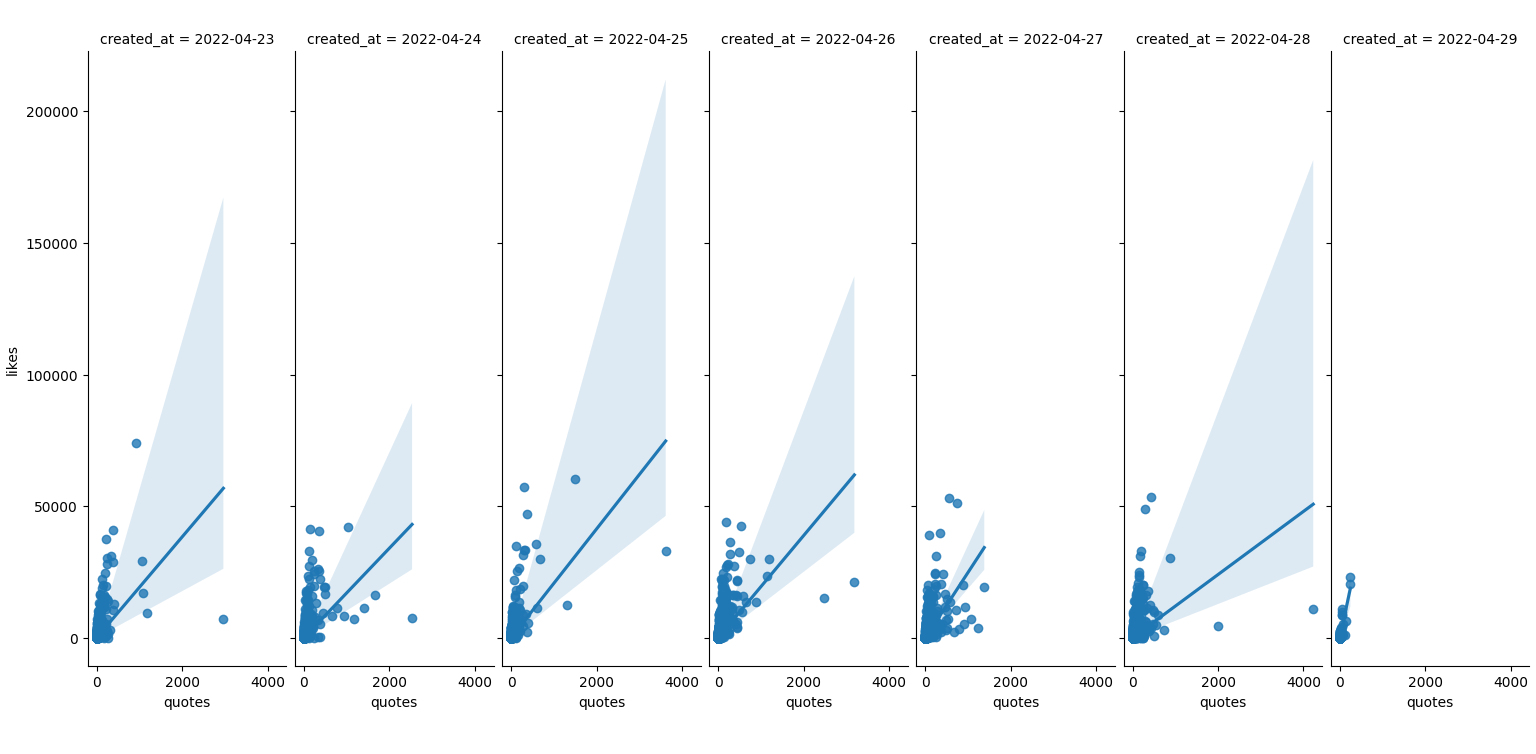
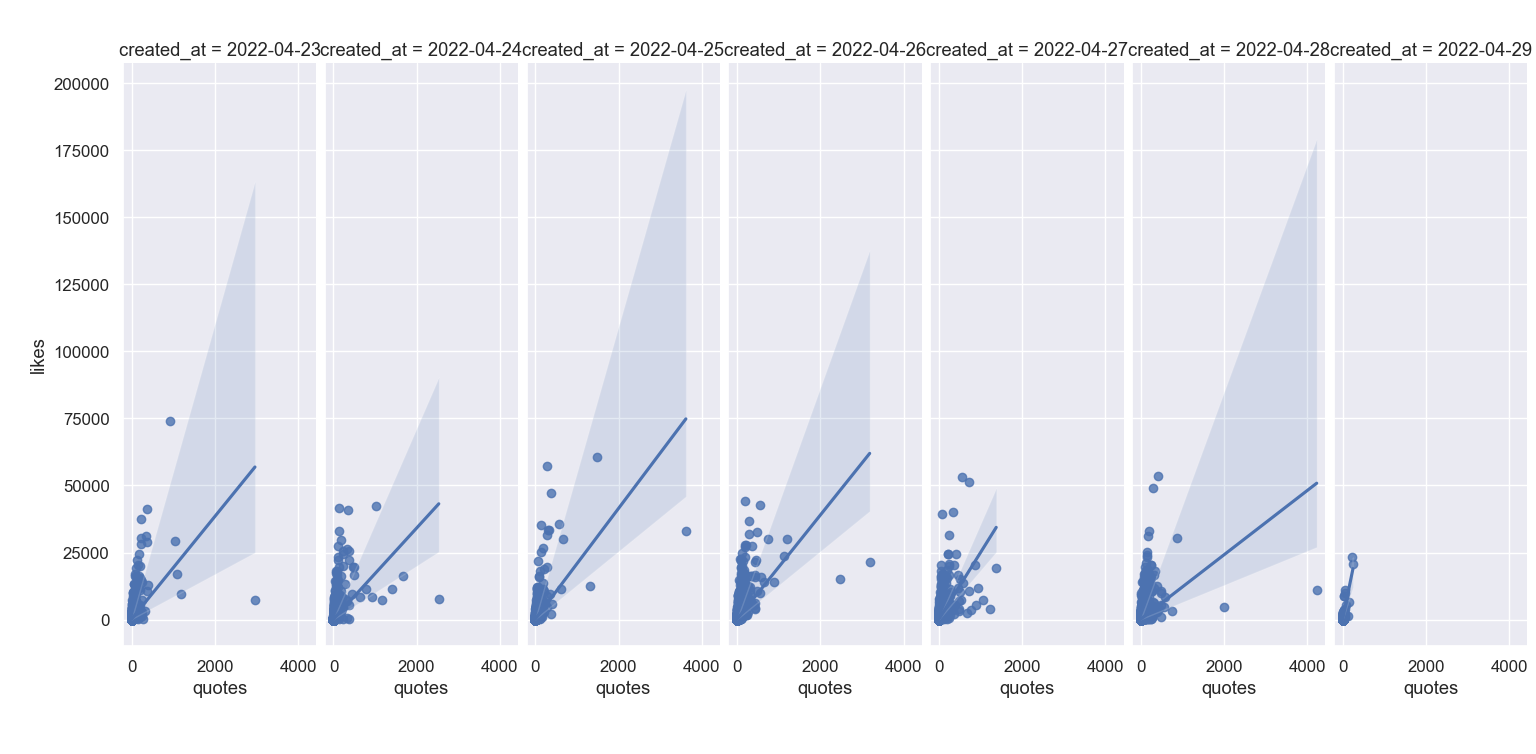
The font size of diagrams was changed!

diff --git a/qualitive_plots.py b/qualitive_plots.py
@@ -18,17 +18,17 @@ count_of_sources = pd.DataFrame(df.groupby(["source"])["source"].count())
 top_5_sources_count = list(count_of_sources.stack().nlargest(5))
 
 hashtags_count = dict(df_hashtags.groupby('hashtags')['hashtags'].count())
-top_10_hashtags_count = list(sorted(hashtags_count.items(), key=lambda item: item[1],reverse=True))[:10]
-top_10_hashtags_df = pd.DataFrame({
-    "hashtag": map(lambda item: item[0],top_10_hashtags_count),
-    "count": map(lambda item: item[1],top_10_hashtags_count)
+top_5_hashtags_count = list(sorted(hashtags_count.items(), key=lambda item: item[1],reverse=True))[:5]
+top_5_hashtags_df = pd.DataFrame({
+    "hashtag": map(lambda item: item[0],top_5_hashtags_count),
+    "count": map(lambda item: item[1],top_5_hashtags_count)
 })
 
 mentions_count = dict(df_mentions.groupby('mentions')['mentions'].count())
-top_10_mentions_count = list(sorted(mentions_count.items(),key=lambda item: item[1],reverse=True))[:10]
-top_10_mentions_df = pd.DataFrame({
-    "mention": map(lambda item: item[0],top_10_mentions_count),
-    "count": map(lambda item: item[1],top_10_mentions_count)
+top_5_mentions_count = list(sorted(mentions_count.items(),key=lambda item: item[1],reverse=True))[:5]
+top_5_mentions_df = pd.DataFrame({
+    "mention": map(lambda item: item[0],top_5_mentions_count),
+    "count": map(lambda item: item[1],top_5_mentions_count)
 })
 
 langs_count = dict(df.groupby('lang')['lang'].count())
@@ -50,9 +50,9 @@ m_word_cloud = WordCloud(collocations = False, background_color = 'white').gener
 l_word_cloud = WordCloud(collocations = False, background_color = 'white').generate(langs_in_string)
 
 sns.set_theme(style="whitegrid")
-
+sns.set(font_scale=2)
 h_fig, h_axs = plt.subplots(nrows=2)
-hashtags_plot = sns.barplot(data=top_10_hashtags_df,x="hashtag",y="count",ax=h_axs[0]) #top 10 hashtags bar plot
+hashtags_plot = sns.barplot(data=top_5_hashtags_df,x="hashtag",y="count",ax=h_axs[0]) #top 10 hashtags bar plot
 
 h_axs[1].imshow(h_word_cloud,interpolation='bilinear')
 h_axs[1].axis("off")
@@ -60,7 +60,7 @@ plt.show(block=False)
 plt.pause(3000)
 
 m_fig, m_axs = plt.subplots(nrows=2)
-mentions_plot = sns.barplot(data=top_10_mentions_df,x="mention",y="count",ax=m_axs[0]) #top 10 mentions bar plot
+mentions_plot = sns.barplot(data=top_5_mentions_df,x="mention",y="count",ax=m_axs[0]) #top 10 mentions bar plot
 
 m_axs[1].imshow(m_word_cloud,interpolation='bilinear')
 m_axs[1].axis("off")
@@ -82,7 +82,7 @@ content_plot.set_xlabel("content categories")
 plt.show(block=False)
 plt.pause(3000)
 
-#top 10 sources barplot
+#top 5 sources barplot
 sources = ['Twitter for Android','Twitter Web App','Twitter for iPhone','Twitter for iPad','TweetDeck']
 sources_barplot = sns.barplot(x=sources,y=top_5_sources_count,palette="deep")
 sources_barplot.set_xlabel("sources")

diff --git a/classification_text.py b/classification_text.py
@@ -12,7 +12,7 @@ en_mlma_df = pd.read_csv("./clear_data/en_dataset.csv")
 off_norm_df = pd.concat([en_mlma_df[en_mlma_df["sentiment"] == 'normal'], en_mlma_df[en_mlma_df["sentiment"] == 'offensive']])
 
 #Classifier statistical estimation for english data set
-cv = KFold(n_splits=10, random_state=42, shuffle=True)
+cv = KFold(n_splits=5, random_state=42, shuffle=True)
 
 text_clf = Pipeline([('count_texts', CountVectorizer(stop_words='english')),
                      ('tf_idf', TfidfTransformer()),
@@ -26,7 +26,6 @@ recall_scores = cross_val_score(text_clf,off_norm_df["tweet"], off_norm_df["sent
 
 print(f'Mean Accuracy: {mean(accuracy_scores)} \n Std Accuracy: {std(accuracy_scores)}')
 print(f'Mean F1 Score: {mean(f1_scores)} \n Std F1 Score: {std(f1_scores)}')
-print(f'Mean Recall: {mean(recall_scores)} \n Std Recall Score: {std(recall_scores)}')
 
 #Prediction of tweets label
 text_clf = text_clf.fit(off_norm_df["tweet"], off_norm_df["sentiment"])

diff --git a/clustering_text.py b/clustering_text.py
@@ -25,7 +25,6 @@ tf_idf_vector = TfidfVectorizer(tokenizer=tokenize,
                                 stop_words='english',
                                 norm="l1")
 texts_tf_idf = tf_idf_vector.fit_transform(en_tweets["text"]).toarray()
-
 pca = PCA(2)
 principal_components = pca.fit_transform(texts_tf_idf)
 kmeans_algo = KMeans(n_clusters=4, random_state=0)
@@ -35,6 +34,7 @@ u_labels = np.unique(labels)
 s = silhouette_score(principal_components, labels, metric="euclidean")
 print(f"Silhouette score is: {s}")
 
-sns.scatterplot(x=principal_components[:,0], y=principal_components[:,1], hue=labels, palette="deep")
+sns.set(font_scale=2)
+sns.scatterplot(x=principal_components[:,0], y=principal_components[:,1], hue=labels, palette="deep", s=200)
 plt.show(block=False)
 plt.pause(3000)

diff --git a/co_plot.py b/co_plot.py
@@ -6,16 +6,19 @@ tweets = pd.read_csv("./clear_data/tweets.csv",sep=",")
 
 tweets["created_at"] = tweets["created_at"].str.slice(start=0,stop=10)
 
+sns.set(font_scale=1.1)
 quote_reply_plot = sns.lmplot(x="quote_count",y="reply_count",col="created_at",data=tweets)
 quote_reply_plot.set_axis_labels("quotes","replies")
 plt.show(block=False)
 plt.pause(3000)
 
+sns.set(font_scale=1.1)
 quote_like_plot = sns.lmplot(x="quote_count",y="like_count",col="created_at",data=tweets)
 quote_like_plot.set_axis_labels("quotes","likes")
 plt.show(block=False)
 plt.pause(3000)
 
+sns.set(font_scale=1.1)
 reply_like_plot = sns.lmplot(x="reply_count",y="like_count",col="created_at",data=tweets)
 reply_like_plot.set_axis_labels("replies","likes")
 plt.show(block=False)

diff --git a/correlations.py b/correlations.py
@@ -3,11 +3,13 @@ import pandas as pd
 import matplotlib.pyplot as plt
 
 df = pd.read_csv("./clear_data/tweets.csv",sep=",")
+sns.set(font_scale=2)
 correlation_matrix = df[["retweet_count","reply_count","like_count","quote_count"]].corr(method="pearson")
-sns.heatmap(correlation_matrix,annot=True)
+sns.heatmap(correlation_matrix,annot=True,annot_kws={"size": 35})
 plt.show()
 
 sns.set_theme(style="darkgrid")
+sns.set(font_scale=2)
 sns.pairplot(df[["retweet_count","reply_count","like_count","quote_count"]], 
                     kind="reg",
                     plot_kws={

diff --git a/sentiment_analysis.py b/sentiment_analysis.py
@@ -30,6 +30,8 @@ sentiments_df = pd.DataFrame.from_dict({
     "tweets": [pos_tweets,neg_tweets,neutral_tweets]
 })
 
+print(sentiments_df)
+sns.set(font_scale=1.5)
 fig, axs = plt.subplots(ncols=3)
 like_replies_plot = sns.scatterplot(data=df_tweets, x="like_count", y="reply_count", hue="sentiments", style="sentiments",ax=axs[2])
 like_replies_plot.set_xlabel("likes")
